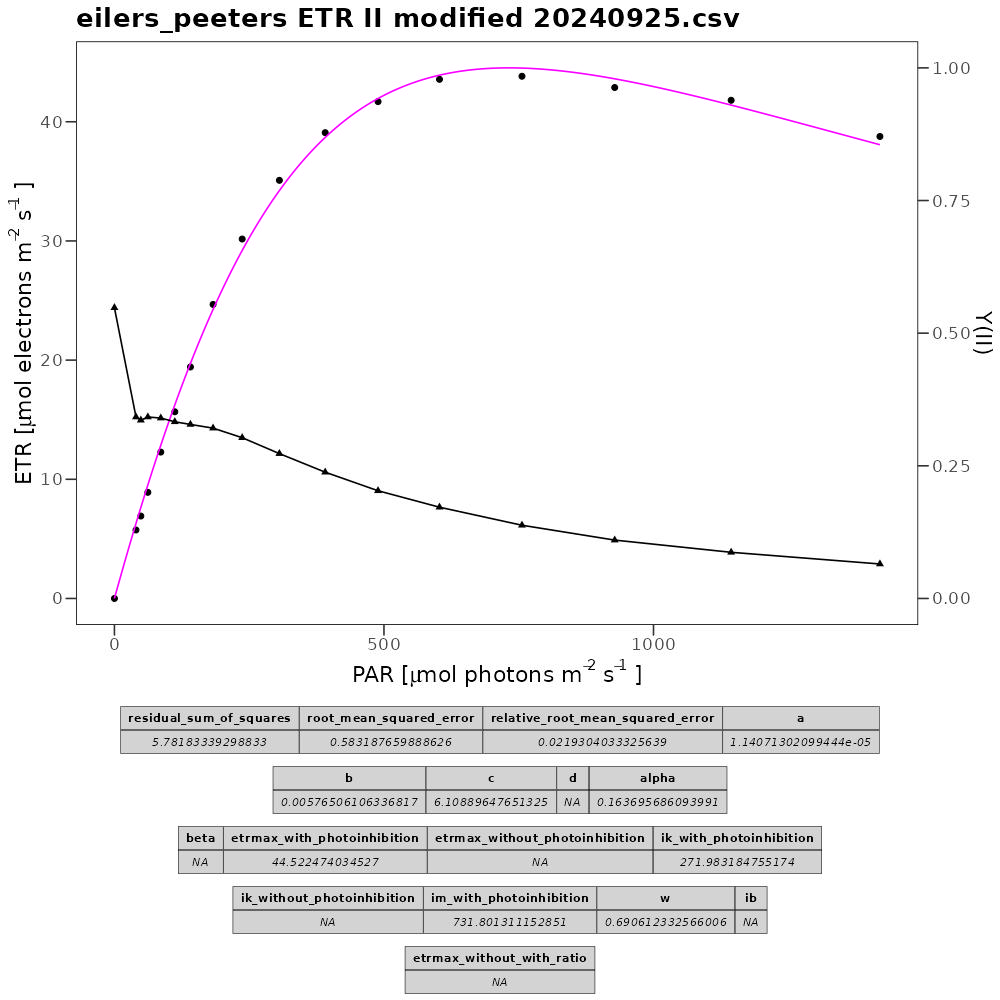
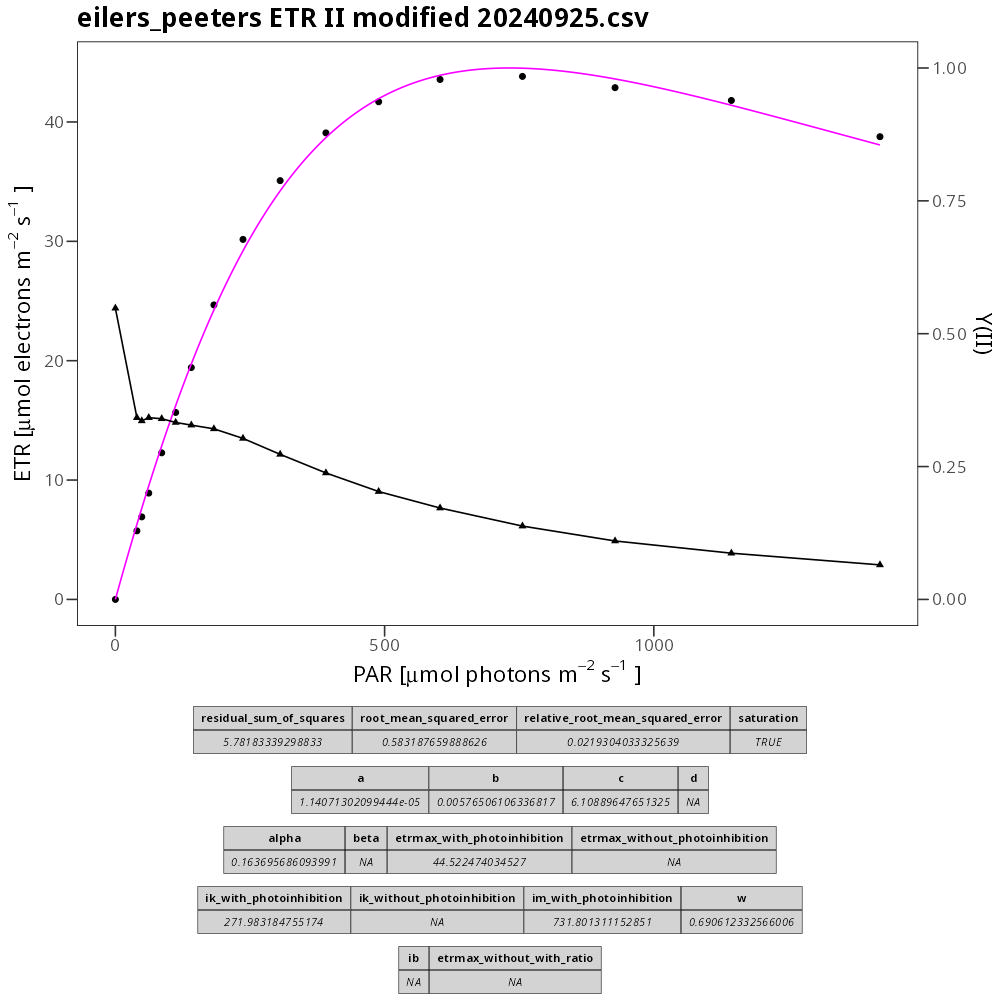
saturation parameter test and plot adjustments

diff --git a/docs/functions/modify_model_results.md b/docs/functions/modify_model_results.md
@@ -241,6 +241,7 @@ modified        |Eilers and Peeters |Platt    |Walsby          |Vollenweider    
 |residual_sum_of_squares        |residual_sum_of_squares    |residual_sum_of_squares    |residual_sum_of_squares          |residual_sum_of_squares      |
 |root_mean_squared_error       |root_mean_squared_error    |root_mean_squared_error    |root_mean_squared_error          |root_mean_squared_error     |
 |relative_root_mean_squared_error       |relative_root_mean_squared_error    |relative_root_mean_squared_error    |relative_root_mean_squared_error         |relative_root_mean_squared_error    |
+| saturation | saturation | saturation | saturation | saturation |
 |a         |a     |ps     |etr_max         |pmax      |
 |b         |b     |alpha    |alpha          |a       |
 |c         |c     |beta    |beta          |alpha      |
